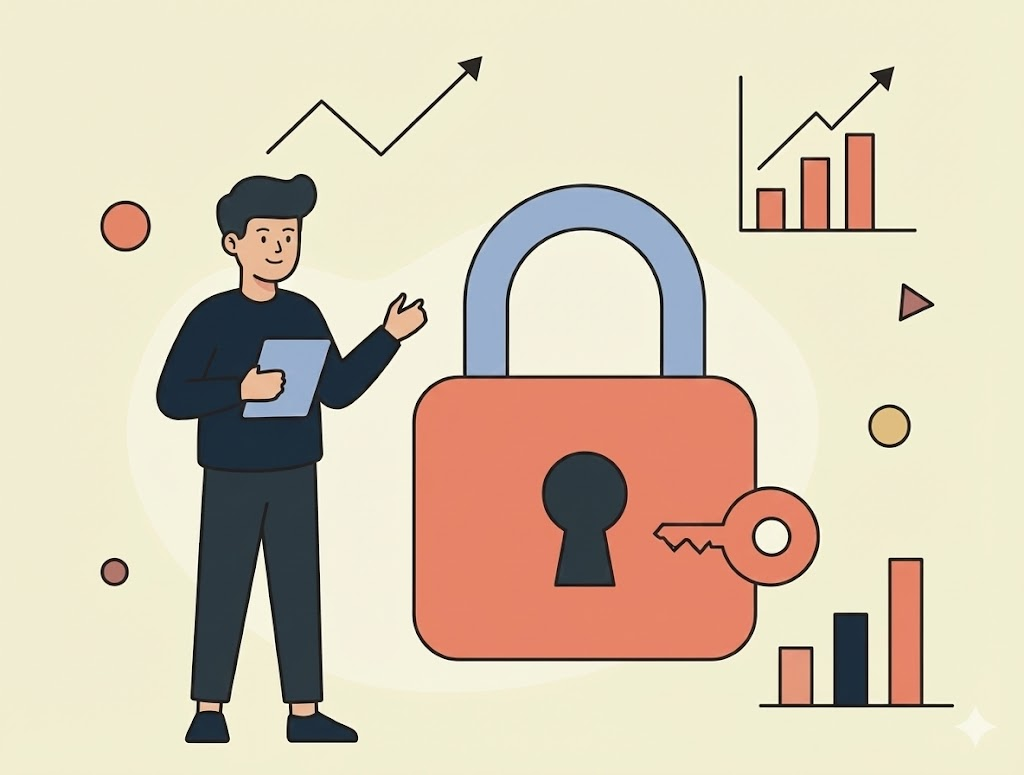
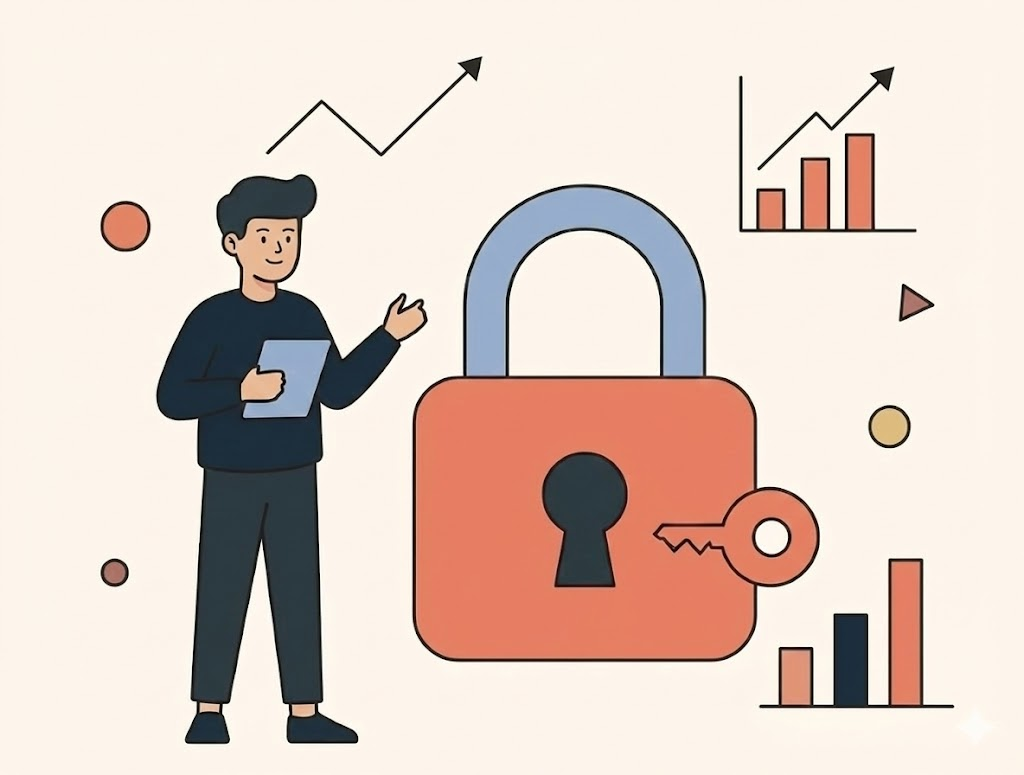
changes_welcome_screen

diff --git a/frontend/app/(auth)/welcome.tsx b/frontend/app/(auth)/welcome.tsx
@@ -1,15 +1,21 @@
 import React from 'react';
-import { View, Text, StyleSheet, TouchableOpacity, Dimensions } from 'react-native';
+import { View, Text, StyleSheet, TouchableOpacity, Dimensions, ScrollView } from 'react-native';
 import { Image } from 'expo-image';
 import { router } from 'expo-router';
 import { StatusBar } from 'expo-status-bar';
+import { SafeAreaView } from 'react-native-safe-area-context';
 
 const { width, height } = Dimensions.get('window');
 
 export default function WelcomeScreen() {
   return (
-    <View style={styles.container}>
-      <StatusBar style="dark" />
+    <SafeAreaView style={styles.safeArea} edges={['top']}>
+      <ScrollView 
+        style={styles.scrollView}
+        contentContainerStyle={styles.scrollContent}
+        showsVerticalScrollIndicator={false}
+      >
+        <StatusBar style="dark" />
       
       {/* Header Text */}
       <View style={styles.headerContainer}>
@@ -47,22 +53,28 @@ export default function WelcomeScreen() {
       >
         <Text style={styles.buttonText}>Start Your Journey</Text>
       </TouchableOpacity>
-    </View>
+      </ScrollView>
+    </SafeAreaView>
   );
 }
 
 const styles = StyleSheet.create({
-  container: {
+  safeArea: {
     flex: 1,
-    backgroundColor: '#FDFDF6', // Light pale yellow/cream background
+    backgroundColor: '#FFF9F2', // Warm cream background
+  },
+  scrollView: {
+    flex: 1,
+  },
+  scrollContent: {
     paddingHorizontal: 24,
-    paddingTop: 60,
-    paddingBottom: 40,
+    paddingTop: 25,
+    paddingBottom: 25,
     alignItems: 'center',
   },
   headerContainer: {
     alignItems: 'center',
-    marginTop: 20,
+    marginTop: 10,
     marginBottom: 30,
   },
   welcomeText: {
@@ -79,9 +91,11 @@ const styles = StyleSheet.create({
   illustrationContainer: {
     width: width * 0.85,
     height: height * 0.35,
-    marginVertical: 20,
+    marginTop: 10,
+    marginBottom: 20,
     alignItems: 'center',
     justifyContent: 'center',
+    minHeight: 200,
   },
   illustration: {
     width: '100%',
@@ -104,7 +118,8 @@ const styles = StyleSheet.create({
     color: '#666',
     textAlign: 'center',
     marginHorizontal: 20,
-    marginTop: 10,
+    marginTop: 20,
+    marginBottom: 30,
     lineHeight: 24,
   },
   dotsContainer: {
@@ -134,7 +149,8 @@ const styles = StyleSheet.create({
     maxWidth: 320,
     alignItems: 'center',
     justifyContent: 'center',
-    marginTop: 20,
+    marginTop: 5,
+    marginBottom: 5,
     shadowColor: '#1E3A5F',
     shadowOffset: { width: 0, height: 4 },
     shadowOpacity: 0.3,

diff --git a/frontend/app/(auth)/login.tsx b/frontend/app/(auth)/login.tsx
@@ -7,6 +7,7 @@ import { auth } from '../../firebase';
 import { router } from 'expo-router';
 import { Ionicons } from '@expo/vector-icons';
 import { StatusBar } from 'expo-status-bar';
+import { SafeAreaView } from 'react-native-safe-area-context';
 
 const { width, height } = Dimensions.get('window');
 
@@ -28,11 +29,12 @@ export default function LoginScreen() {
   };
 
   return (
-    <ScrollView style={styles.scrollContainer} contentContainerStyle={styles.scrollContent}>
-      <StatusBar style="dark" />
-      
-      {/* Illustration at top */}
-      <View style={styles.illustrationContainer}>
+    <SafeAreaView style={styles.safeArea} edges={['top']}>
+      <ScrollView style={styles.scrollContainer} contentContainerStyle={styles.scrollContent}>
+        <StatusBar style="dark" />
+        
+        {/* Illustration at top */}
+        <View style={styles.illustrationContainer}>
         <Image
           source={require('../../assets/images/login-illustration.jpg')}
           style={styles.illustration}
@@ -96,24 +98,30 @@ export default function LoginScreen() {
           </TouchableOpacity>
         </View>
       </View>
-    </ScrollView>
+      </ScrollView>
+    </SafeAreaView>
   );
 }
 
 const styles = StyleSheet.create({
-  scrollContainer: {
+  safeArea: {
     flex: 1,
     backgroundColor: '#F5F5F0', // Light beige/cream background
+  },
+  scrollContainer: {
+    flex: 1,
   },
   scrollContent: {
     flexGrow: 1,
   },
   illustrationContainer: {
-    width: width,
+    width: '100%',
     height: height * 0.3,
-    alignItems: 'center',
+    alignItems: 'stretch',
     justifyContent: 'flex-end',
+    paddingTop: 0,
     paddingBottom: 20,
+    paddingHorizontal: 0,
     backgroundColor: '#F5F5F0',
   },
   illustration: {

diff --git a/frontend/app/(auth)/signup.tsx b/frontend/app/(auth)/signup.tsx
@@ -7,6 +7,7 @@ import { auth } from '../../firebase';
 import { router } from 'expo-router';
 import { Ionicons } from '@expo/vector-icons';
 import { StatusBar } from 'expo-status-bar';
+import { SafeAreaView } from 'react-native-safe-area-context';
 
 const { width, height } = Dimensions.get('window');
 
@@ -34,11 +35,12 @@ export default function SignUpScreen() {
   };
 
   return (
-    <ScrollView style={styles.scrollContainer} contentContainerStyle={styles.scrollContent}>
-      <StatusBar style="dark" />
-      
-      {/* Illustration at top */}
-      <View style={styles.illustrationContainer}>
+    <SafeAreaView style={styles.safeArea} edges={['top']}>
+      <ScrollView style={styles.scrollContainer} contentContainerStyle={styles.scrollContent}>
+        <StatusBar style="dark" />
+        
+        {/* Illustration at top */}
+        <View style={styles.illustrationContainer}>
         <Image
           source={require('../../assets/images/signup-illustration.jpg')}
           style={styles.illustration}
@@ -118,24 +120,30 @@ export default function SignUpScreen() {
           </TouchableOpacity>
         </View>
       </View>
-    </ScrollView>
+      </ScrollView>
+    </SafeAreaView>
   );
 }
 
 const styles = StyleSheet.create({
-  scrollContainer: {
+  safeArea: {
     flex: 1,
     backgroundColor: '#F5F5F0', // Light beige/cream background
+  },
+  scrollContainer: {
+    flex: 1,
   },
   scrollContent: {
     flexGrow: 1,
   },
   illustrationContainer: {
-    width: width,
+    width: '100%',
     height: height * 0.3,
-    alignItems: 'center',
+    alignItems: 'stretch',
     justifyContent: 'flex-end',
+    paddingTop: 0,
     paddingBottom: 20,
+    paddingHorizontal: 0,
   },
   illustration: {
     width: '100%',

diff --git a/frontend/app/_layout.tsx b/frontend/app/_layout.tsx
@@ -15,7 +15,7 @@ export default function RootLayout() {
   return (
     <ThemeProvider value={colorScheme === 'dark' ? DarkTheme : DefaultTheme}>
       <Stack>
-        <Stack.Screen name="(auth)" />
+        <Stack.Screen name="(auth)" options={{ title: 'Spenzia', headerShown: false }} />
         <Stack.Screen name="(tabs)" options={{ headerShown: false }} />
         <Stack.Screen name="modal" options={{ presentation: 'modal', title: 'Modal' }} />
       </Stack>
